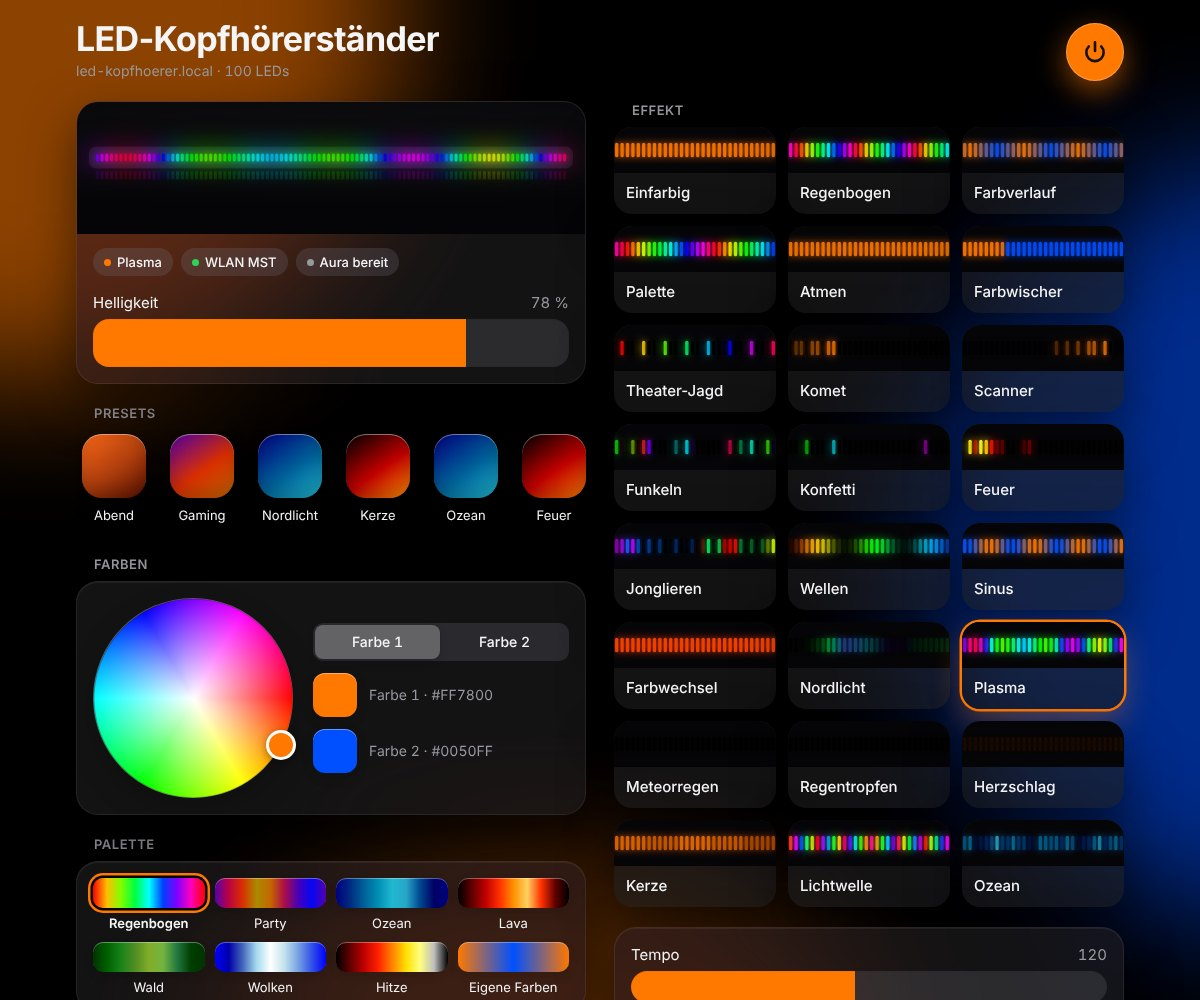
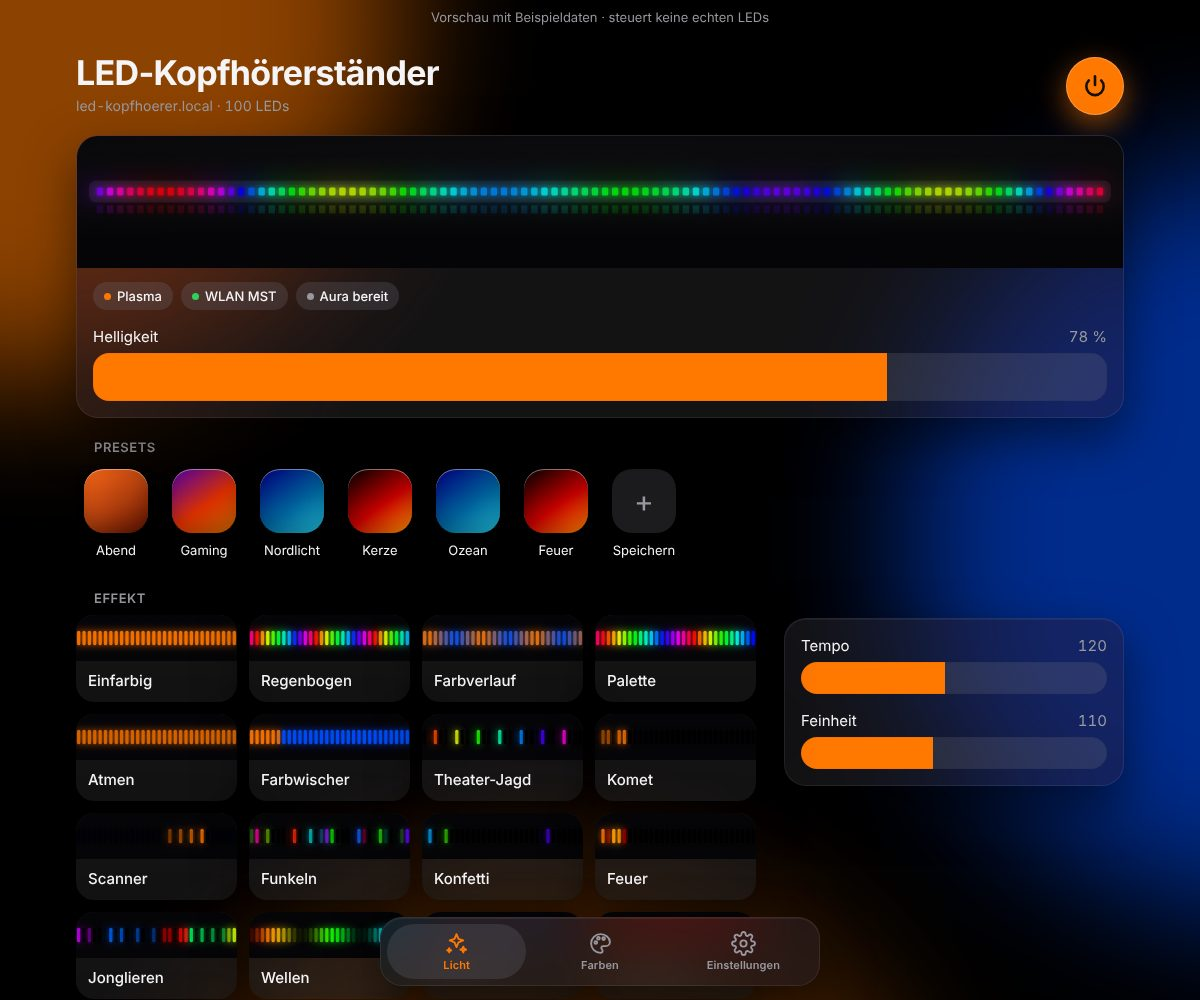
Weboberfläche in drei Seiten mit Tab-Leiste aufteilen
Licht (Presets, Tempo, Effekte), Farben (Farbrad, Paletten) und
Einstellungen (Aura, Sync, Stromgrenze, Drehung, Gerät, WLAN). Kopf,
Live-Streifen und Helligkeit bleiben oben sichtbar. Schwebende
Tab-Leiste unten, Seiten per #licht/#farben/#einst erreichbar, die
letzte Seite merkt sich der Browser. README-Bilder erneuert.

Claude-Session: https://claude.ai/code/session_01GN2BkTnwmeb155U63FM4of

diff --git a/web/index.html b/web/index.html
@@ -39,9 +39,26 @@ button,input{font:inherit;color:inherit}
 .off .ambient{opacity:.08}
 @keyframes drift{to{transform:translate(8vmax,6vmax) scale(1.15)}}
 .demo{position:relative;z-index:2;font-size:13px;text-align:center;padding:8px 16px;color:var(--muted)}
-.app{position:relative;z-index:1;max-width:1080px;margin:0 auto;padding:8px 16px calc(40px + env(safe-area-inset-bottom));display:grid;gap:20px}
-@media (min-width:900px){.app{grid-template-columns:1fr 1fr;align-items:start;column-gap:28px}.span{grid-column:1/-1}}
-.col{display:grid;gap:20px}
+.app{position:relative;z-index:1;max-width:1080px;margin:0 auto;padding:8px 16px calc(120px + env(safe-area-inset-bottom));display:grid;gap:20px}
+.col{display:grid;gap:20px;align-content:start}
+/* Drei Bereiche; Kopf, Streifen und Helligkeit bleiben auf jeder Seite sichtbar */
+.view{display:grid;gap:20px;align-items:start}
+.view[hidden]{display:none}
+.view.in{animation:viewIn .32s cubic-bezier(.2,.8,.2,1)}
+@keyframes viewIn{from{opacity:0;transform:translateY(10px)}}
+@media (min-width:900px){
+ .view{grid-template-columns:1fr 1fr;column-gap:28px}
+ .v-licht{grid-template-columns:1fr 340px;grid-template-areas:"pre pre" "fx spd"}
+ .a-pre{grid-area:pre}.a-fx{grid-area:fx}.a-spd{grid-area:spd;position:sticky;top:20px;margin-top:29px}
+ .v-licht .fx{grid-template-columns:repeat(auto-fill,minmax(150px,1fr))}
+}
+/* Tab-Leiste unten, schwebend wie in iOS-Apps */
+.tabbar{position:fixed;z-index:5;left:50%;bottom:calc(14px + env(safe-area-inset-bottom));transform:translateX(-50%);display:flex;gap:4px;padding:6px;border-radius:999px;width:min(440px,calc(100% - 32px))}
+.tabbar{background:color-mix(in srgb,var(--bg) 70%,transparent);backdrop-filter:blur(24px) saturate(1.8);-webkit-backdrop-filter:blur(24px) saturate(1.8)}
+.tabbar button{flex:1;display:grid;justify-items:center;gap:2px;border:0;background:none;border-radius:999px;padding:7px 6px 6px;cursor:pointer;color:var(--muted);font-size:11px;font-weight:600;letter-spacing:.01em;transition:background .25s,color .25s}
+.tabbar svg{width:25px;height:25px;fill:none;stroke:currentColor;stroke-width:1.8;stroke-linejoin:round;stroke-linecap:round}
+.tabbar button[aria-selected="true"]{color:var(--acc);background:var(--fill)}
+.tabbar button:active{transform:scale(.94)}
 header{display:flex;align-items:flex-end;gap:14px;padding-top:12px}
 header .txt{flex:1;min-width:0}
 header h1{font:700 34px/1.1 var(--display);letter-spacing:-.02em;margin:0;text-wrap:balance}
@@ -127,24 +144,33 @@ input[type=number]{width:90px;text-align:right;border:0;background:none;color:va
 <div class="ambient" aria-hidden="true"><i></i><i></i><i></i></div>
 <div class="demo" id="demo">Vorschau mit Beispieldaten · steuert keine echten LEDs</div>
 <main class="app">
- <header class="span">
+ <header>
   <div class="txt"><h1>LED-Kopfhörer&shy;ständer</h1><div class="sub" id="sub">verbinde …</div></div>
   <button class="power" id="power" type="button" aria-pressed="true" aria-label="LEDs ein- oder ausschalten"><svg viewBox="0 0 24 24"><path d="M12 3v8"/><path d="M6.3 6.8a8 8 0 1 0 11.4 0"/></svg></button>
  </header>
 
- <div class="col">
-  <section class="glass stage" aria-label="Live-Vorschau">
-   <canvas class="strip" id="strip"></canvas>
-   <div class="pad">
-    <div class="status" id="status"></div>
-    <div class="ctl"><div class="lab"><label for="bri">Helligkeit</label><output id="briO"></output></div><input id="bri" class="big" type="range" min="1" max="255"></div>
-   </div>
-  </section>
+ <section class="glass stage" aria-label="Live-Vorschau">
+  <canvas class="strip" id="strip"></canvas>
+  <div class="pad">
+   <div class="status" id="status"></div>
+   <div class="ctl"><div class="lab"><label for="bri">Helligkeit</label><output id="briO"></output></div><input id="bri" class="big" type="range" min="1" max="255"></div>
+  </div>
+ </section>
 
-  <div class="group"><h2>Presets</h2>
+ <div class="view v-licht" id="v-licht" role="tabpanel" aria-labelledby="t-licht">
+  <div class="group a-pre"><h2>Presets</h2>
    <div class="presets" id="presets"></div>
   </div>
+  <section class="glass pad a-spd">
+   <div class="ctl"><div class="lab"><label for="spd">Tempo</label><output id="spdO"></output></div><input id="spd" type="range" min="0" max="255"></div>
+   <div class="ctl"><div class="lab"><label for="int" id="intL">Intensität</label><output id="intO"></output></div><input id="int" type="range" min="0" max="255"></div>
+  </section>
+  <div class="group a-fx"><h2>Effekt</h2>
+   <div class="fx" id="fx"></div>
+  </div>
+ </div>
 
+ <div class="view" id="v-farben" role="tabpanel" aria-labelledby="t-farben" hidden>
   <div class="group"><h2>Farben</h2>
    <section class="glass pad">
     <div class="colors">
@@ -157,39 +183,42 @@ input[type=number]{width:90px;text-align:right;border:0;background:none;color:va
     </div>
    </section>
   </div>
-
   <div class="group"><h2>Palette</h2>
    <section class="glass pad"><div class="pals" id="pals"></div></section>
+   <p class="foot">Die Palette färbt alle mehrfarbigen Effekte, etwa Konfetti, Plasma oder Meteorregen. „Eigene Farben“ mischt Farbe 1 und Farbe 2.</p>
   </div>
  </div>
 
- <div class="col">
-  <div class="group"><h2>Effekt</h2>
-   <div class="fx" id="fx"></div>
+ <div class="view" id="v-einst" role="tabpanel" aria-labelledby="t-einst" hidden>
+  <div class="col">
+   <div class="group"><h2>PC und Mainboard</h2>
+    <section class="glass list">
+     <div class="li"><span>ASUS Aura über Kabel</span><button class="switch" id="argb" type="button" role="switch" aria-checked="false" aria-label="ASUS Aura übernehmen"></button><small id="argbHint"></small></div>
+     <div class="li"><span>PC-Sync per WLAN</span><button class="switch" id="sync" type="button" role="switch" aria-checked="true" aria-label="PC-Sync per WLAN"></button><small>SignalRGB, OpenRGB, Home Assistant</small></div>
+    </section>
+   </div>
+   <div class="group"><h2>Einstellungen</h2>
+    <section class="glass list">
+     <div class="li"><label for="ma">Stromgrenze</label><span class="val"><input id="ma" type="number" min="200" step="100"> mA</span></div>
+     <div class="li"><span id="rotL">Anzeige drehen</span><div class="seg" id="rot" role="group" aria-labelledby="rotL" style="min-width:210px"></div></div>
+    </section>
+    <p class="foot" id="maHint"></p>
+   </div>
   </div>
-  <section class="glass pad">
-   <div class="ctl"><div class="lab"><label for="spd">Tempo</label><output id="spdO"></output></div><input id="spd" type="range" min="0" max="255"></div>
-   <div class="ctl"><div class="lab"><label for="int" id="intL">Intensität</label><output id="intO"></output></div><input id="int" type="range" min="0" max="255"></div>
-  </section>
-
-  <div class="group"><h2>PC und Mainboard</h2>
-   <section class="glass list">
-    <div class="li"><span>ASUS Aura über Kabel</span><button class="switch" id="argb" type="button" role="switch" aria-checked="false" aria-label="ASUS Aura übernehmen"></button><small id="argbHint"></small></div>
-    <div class="li"><span>PC-Sync per WLAN</span><button class="switch" id="sync" type="button" role="switch" aria-checked="true" aria-label="PC-Sync per WLAN"></button><small>SignalRGB, OpenRGB, Home Assistant</small></div>
-   </section>
-  </div>
-
-  <div class="group"><h2>Einstellungen</h2>
-   <section class="glass list">
-    <div class="li"><label for="ma">Stromgrenze</label><span class="val"><input id="ma" type="number" min="200" step="100"> mA</span></div>
-    <div class="li"><span id="rotL">Anzeige drehen</span><div class="seg" id="rot" role="group" aria-labelledby="rotL" style="min-width:210px"></div></div>
-   </section>
-   <p class="foot" id="maHint"></p>
-   <section class="glass list" id="meta"></section>
+  <div class="col">
+   <div class="group"><h2>Gerät</h2>
+    <section class="glass list" id="meta"></section>
+   </div>
    <section class="glass list"><button class="li btn" id="wifiReset" type="button">WLAN neu einrichten</button></section>
   </div>
  </div>
 </main>
+
+<nav class="tabbar glass" role="tablist" aria-label="Bereiche">
+ <button id="t-licht" role="tab" type="button" aria-controls="v-licht" data-v="licht"><svg viewBox="0 0 24 24"><path d="M12 3l1.9 4.6L18.5 9l-4.6 1.9L12 15.5l-1.9-4.6L5.5 9l4.6-1.4z"/><path d="M18.5 15l.8 2 2 .8-2 .8-.8 2-.8-2-2-.8 2-.8z"/><path d="M5 16.5l.6 1.4 1.4.6-1.4.6L5 20.5l-.6-1.4-1.4-.6 1.4-.6z"/></svg><span>Licht</span></button>
+ <button id="t-farben" role="tab" type="button" aria-controls="v-farben" data-v="farben"><svg viewBox="0 0 24 24"><path d="M12 3a9 9 0 1 0 0 18c1.4 0 2-1 2-2 0-1.3-1.2-1.6-1.2-2.8 0-1 .8-1.7 1.8-1.7H17a4 4 0 0 0 4-4C21 6.4 17 3 12 3z"/><circle cx="7.5" cy="11" r="1.3"/><circle cx="10" cy="7" r="1.3"/><circle cx="15" cy="7.3" r="1.3"/></svg><span>Farben</span></button>
+ <button id="t-einst" role="tab" type="button" aria-controls="v-einst" data-v="einst"><svg viewBox="0 0 24 24"><circle cx="12" cy="12" r="3"/><path d="M19.4 15a1.7 1.7 0 0 0 .3 1.8l.1.1a2 2 0 1 1-2.8 2.8l-.1-.1a1.7 1.7 0 0 0-1.8-.3 1.7 1.7 0 0 0-1 1.5V21a2 2 0 1 1-4 0v-.1a1.7 1.7 0 0 0-1.1-1.5 1.7 1.7 0 0 0-1.8.3l-.1.1a2 2 0 1 1-2.8-2.8l.1-.1a1.7 1.7 0 0 0 .3-1.8 1.7 1.7 0 0 0-1.5-1H3a2 2 0 1 1 0-4h.1a1.7 1.7 0 0 0 1.5-1.1 1.7 1.7 0 0 0-.3-1.8l-.1-.1a2 2 0 1 1 2.8-2.8l.1.1a1.7 1.7 0 0 0 1.8.3H9a1.7 1.7 0 0 0 1-1.5V3a2 2 0 1 1 4 0v.1a1.7 1.7 0 0 0 1 1.5 1.7 1.7 0 0 0 1.8-.3l.1-.1a2 2 0 1 1 2.8 2.8l-.1.1a1.7 1.7 0 0 0-.3 1.8V9a1.7 1.7 0 0 0 1.5 1H21a2 2 0 1 1 0 4h-.1a1.7 1.7 0 0 0-1.5 1z"/></svg><span>Einstellungen</span></button>
+</nav>
 <script>
 "use strict";
 // Auf dem Geraet spricht die Seite mit /api/...; nur die Online-Vorschau setzt window.LED_DEMO.
@@ -461,11 +490,30 @@ function loop(now){
  if (acc>=step){
   const cols = !st.on ? Array.from({length:info.leds},()=>[0,0,0]) : (liveCols && performance.now()-liveAt<1000) ? liveCols : mainSim(st.fx, st, acc);
   drawStrip($('strip'), cols, st.on?st.bri:0);
-  tiles.forEach((t,i)=>drawLeds(t.cv, t.sim(i, {...st, spd:Math.max(st.spd,60)}, acc), 235, true));
+  if (view==='licht') tiles.forEach((t,i)=>drawLeds(t.cv, t.sim(i, {...st, spd:Math.max(st.spd,60)}, acc), 235, true));
   acc=0;
  }
  requestAnimationFrame(loop);
 }
+// ---------- Bereiche ----------
+const VIEWS=['licht','farben','einst'];
+let view='licht';
+function show(v, anim){
+ if(!VIEWS.includes(v)) v='licht';
+ view=v;
+ for(const k of VIEWS){ const on=k===v, el=$('v-'+k), t=$('t-'+k);
+  el.hidden=!on; t.setAttribute('aria-selected',on); t.tabIndex=on?0:-1;
+  if(on && anim && !reduce){ el.classList.remove('in'); void el.offsetWidth; el.classList.add('in'); } }
+ try{ localStorage.setItem('ledView',v); }catch(e){}
+}
+document.querySelectorAll('.tabbar button').forEach((b,i,all)=>{
+ b.onclick=()=>{ if(b.dataset.v===view) return scrollTo({top:0,behavior:reduce?'auto':'smooth'});
+  history.replaceState(null,'','#'+b.dataset.v); show(b.dataset.v,true); scrollTo(0,0); };
+ b.onkeydown=e=>{ const d=e.key==='ArrowRight'?1:e.key==='ArrowLeft'?-1:0; if(!d) return;
+  const n=all[(i+d+all.length)%all.length]; n.focus(); n.click(); };
+});
+addEventListener('hashchange',()=>show(location.hash.slice(1),true));
+{ let v=location.hash.slice(1); if(!VIEWS.includes(v)){ try{ v=localStorage.getItem('ledView')||''; }catch(e){ v=''; } } show(v,false); }
 $('demo').hidden=!DEMO;
 Promise.all([api.info(),api.state(),api.presets().catch(()=>null)]).then(([i,s,p])=>{ info=i; st=s; if(Array.isArray(p)&&p.length) presets=p; mainSim=makeSim(info.leds); build(); drawWheel(); render(); requestAnimationFrame(loop); if(api.live) pollLive(); });
 if (!DEMO) setInterval(()=>{ if(!Object.keys(pending).length) api.state().then(s=>{st=s;render();}).catch(()=>{}); },3000);

diff --git a/src/webui_index.h b/src/webui_index.h
@@ -43,9 +43,26 @@ button,input{font:inherit;color:inherit}
 .off .ambient{opacity:.08}
 @keyframes drift{to{transform:translate(8vmax,6vmax) scale(1.15)}}
 .demo{position:relative;z-index:2;font-size:13px;text-align:center;padding:8px 16px;color:var(--muted)}
-.app{position:relative;z-index:1;max-width:1080px;margin:0 auto;padding:8px 16px calc(40px + env(safe-area-inset-bottom));display:grid;gap:20px}
-@media (min-width:900px){.app{grid-template-columns:1fr 1fr;align-items:start;column-gap:28px}.span{grid-column:1/-1}}
-.col{display:grid;gap:20px}
+.app{position:relative;z-index:1;max-width:1080px;margin:0 auto;padding:8px 16px calc(120px + env(safe-area-inset-bottom));display:grid;gap:20px}
+.col{display:grid;gap:20px;align-content:start}
+/* Drei Bereiche; Kopf, Streifen und Helligkeit bleiben auf jeder Seite sichtbar */
+.view{display:grid;gap:20px;align-items:start}
+.view[hidden]{display:none}
+.view.in{animation:viewIn .32s cubic-bezier(.2,.8,.2,1)}
+@keyframes viewIn{from{opacity:0;transform:translateY(10px)}}
+@media (min-width:900px){
+ .view{grid-template-columns:1fr 1fr;column-gap:28px}
+ .v-licht{grid-template-columns:1fr 340px;grid-template-areas:"pre pre" "fx spd"}
+ .a-pre{grid-area:pre}.a-fx{grid-area:fx}.a-spd{grid-area:spd;position:sticky;top:20px;margin-top:29px}
+ .v-licht .fx{grid-template-columns:repeat(auto-fill,minmax(150px,1fr))}
+}
+/* Tab-Leiste unten, schwebend wie in iOS-Apps */
+.tabbar{position:fixed;z-index:5;left:50%;bottom:calc(14px + env(safe-area-inset-bottom));transform:translateX(-50%);display:flex;gap:4px;padding:6px;border-radius:999px;width:min(440px,calc(100% - 32px))}
+.tabbar{background:color-mix(in srgb,var(--bg) 70%,transparent);backdrop-filter:blur(24px) saturate(1.8);-webkit-backdrop-filter:blur(24px) saturate(1.8)}
+.tabbar button{flex:1;display:grid;justify-items:center;gap:2px;border:0;background:none;border-radius:999px;padding:7px 6px 6px;cursor:pointer;color:var(--muted);font-size:11px;font-weight:600;letter-spacing:.01em;transition:background .25s,color .25s}
+.tabbar svg{width:25px;height:25px;fill:none;stroke:currentColor;stroke-width:1.8;stroke-linejoin:round;stroke-linecap:round}
+.tabbar button[aria-selected="true"]{color:var(--acc);background:var(--fill)}
+.tabbar button:active{transform:scale(.94)}
 header{display:flex;align-items:flex-end;gap:14px;padding-top:12px}
 header .txt{flex:1;min-width:0}
 header h1{font:700 34px/1.1 var(--display);letter-spacing:-.02em;margin:0;text-wrap:balance}
@@ -131,24 +148,33 @@ input[type=number]{width:90px;text-align:right;border:0;background:none;color:va
 <div class="ambient" aria-hidden="true"><i></i><i></i><i></i></div>
 <div class="demo" id="demo">Vorschau mit Beispieldaten · steuert keine echten LEDs</div>
 <main class="app">
- <header class="span">
+ <header>
   <div class="txt"><h1>LED-Kopfhörer&shy;ständer</h1><div class="sub" id="sub">verbinde …</div></div>
   <button class="power" id="power" type="button" aria-pressed="true" aria-label="LEDs ein- oder ausschalten"><svg viewBox="0 0 24 24"><path d="M12 3v8"/><path d="M6.3 6.8a8 8 0 1 0 11.4 0"/></svg></button>
  </header>
 
- <div class="col">
-  <section class="glass stage" aria-label="Live-Vorschau">
-   <canvas class="strip" id="strip"></canvas>
-   <div class="pad">
-    <div class="status" id="status"></div>
-    <div class="ctl"><div class="lab"><label for="bri">Helligkeit</label><output id="briO"></output></div><input id="bri" class="big" type="range" min="1" max="255"></div>
-   </div>
-  </section>
+ <section class="glass stage" aria-label="Live-Vorschau">
+  <canvas class="strip" id="strip"></canvas>
+  <div class="pad">
+   <div class="status" id="status"></div>
+   <div class="ctl"><div class="lab"><label for="bri">Helligkeit</label><output id="briO"></output></div><input id="bri" class="big" type="range" min="1" max="255"></div>
+  </div>
+ </section>
 
-  <div class="group"><h2>Presets</h2>
+ <div class="view v-licht" id="v-licht" role="tabpanel" aria-labelledby="t-licht">
+  <div class="group a-pre"><h2>Presets</h2>
    <div class="presets" id="presets"></div>
   </div>
+  <section class="glass pad a-spd">
+   <div class="ctl"><div class="lab"><label for="spd">Tempo</label><output id="spdO"></output></div><input id="spd" type="range" min="0" max="255"></div>
+   <div class="ctl"><div class="lab"><label for="int" id="intL">Intensität</label><output id="intO"></output></div><input id="int" type="range" min="0" max="255"></div>
+  </section>
+  <div class="group a-fx"><h2>Effekt</h2>
+   <div class="fx" id="fx"></div>
+  </div>
+ </div>
 
+ <div class="view" id="v-farben" role="tabpanel" aria-labelledby="t-farben" hidden>
   <div class="group"><h2>Farben</h2>
    <section class="glass pad">
     <div class="colors">
@@ -161,39 +187,42 @@ input[type=number]{width:90px;text-align:right;border:0;background:none;color:va
     </div>
    </section>
   </div>
-
   <div class="group"><h2>Palette</h2>
    <section class="glass pad"><div class="pals" id="pals"></div></section>
+   <p class="foot">Die Palette färbt alle mehrfarbigen Effekte, etwa Konfetti, Plasma oder Meteorregen. „Eigene Farben“ mischt Farbe 1 und Farbe 2.</p>
   </div>
  </div>
 
- <div class="col">
-  <div class="group"><h2>Effekt</h2>
-   <div class="fx" id="fx"></div>
+ <div class="view" id="v-einst" role="tabpanel" aria-labelledby="t-einst" hidden>
+  <div class="col">
+   <div class="group"><h2>PC und Mainboard</h2>
+    <section class="glass list">
+     <div class="li"><span>ASUS Aura über Kabel</span><button class="switch" id="argb" type="button" role="switch" aria-checked="false" aria-label="ASUS Aura übernehmen"></button><small id="argbHint"></small></div>
+     <div class="li"><span>PC-Sync per WLAN</span><button class="switch" id="sync" type="button" role="switch" aria-checked="true" aria-label="PC-Sync per WLAN"></button><small>SignalRGB, OpenRGB, Home Assistant</small></div>
+    </section>
+   </div>
+   <div class="group"><h2>Einstellungen</h2>
+    <section class="glass list">
+     <div class="li"><label for="ma">Stromgrenze</label><span class="val"><input id="ma" type="number" min="200" step="100"> mA</span></div>
+     <div class="li"><span id="rotL">Anzeige drehen</span><div class="seg" id="rot" role="group" aria-labelledby="rotL" style="min-width:210px"></div></div>
+    </section>
+    <p class="foot" id="maHint"></p>
+   </div>
   </div>
-  <section class="glass pad">
-   <div class="ctl"><div class="lab"><label for="spd">Tempo</label><output id="spdO"></output></div><input id="spd" type="range" min="0" max="255"></div>
-   <div class="ctl"><div class="lab"><label for="int" id="intL">Intensität</label><output id="intO"></output></div><input id="int" type="range" min="0" max="255"></div>
-  </section>
-
-  <div class="group"><h2>PC und Mainboard</h2>
-   <section class="glass list">
-    <div class="li"><span>ASUS Aura über Kabel</span><button class="switch" id="argb" type="button" role="switch" aria-checked="false" aria-label="ASUS Aura übernehmen"></button><small id="argbHint"></small></div>
-    <div class="li"><span>PC-Sync per WLAN</span><button class="switch" id="sync" type="button" role="switch" aria-checked="true" aria-label="PC-Sync per WLAN"></button><small>SignalRGB, OpenRGB, Home Assistant</small></div>
-   </section>
-  </div>
-
-  <div class="group"><h2>Einstellungen</h2>
-   <section class="glass list">
-    <div class="li"><label for="ma">Stromgrenze</label><span class="val"><input id="ma" type="number" min="200" step="100"> mA</span></div>
-    <div class="li"><span id="rotL">Anzeige drehen</span><div class="seg" id="rot" role="group" aria-labelledby="rotL" style="min-width:210px"></div></div>
-   </section>
-   <p class="foot" id="maHint"></p>
-   <section class="glass list" id="meta"></section>
+  <div class="col">
+   <div class="group"><h2>Gerät</h2>
+    <section class="glass list" id="meta"></section>
+   </div>
    <section class="glass list"><button class="li btn" id="wifiReset" type="button">WLAN neu einrichten</button></section>
   </div>
  </div>
 </main>
+
+<nav class="tabbar glass" role="tablist" aria-label="Bereiche">
+ <button id="t-licht" role="tab" type="button" aria-controls="v-licht" data-v="licht"><svg viewBox="0 0 24 24"><path d="M12 3l1.9 4.6L18.5 9l-4.6 1.9L12 15.5l-1.9-4.6L5.5 9l4.6-1.4z"/><path d="M18.5 15l.8 2 2 .8-2 .8-.8 2-.8-2-2-.8 2-.8z"/><path d="M5 16.5l.6 1.4 1.4.6-1.4.6L5 20.5l-.6-1.4-1.4-.6 1.4-.6z"/></svg><span>Licht</span></button>
+ <button id="t-farben" role="tab" type="button" aria-controls="v-farben" data-v="farben"><svg viewBox="0 0 24 24"><path d="M12 3a9 9 0 1 0 0 18c1.4 0 2-1 2-2 0-1.3-1.2-1.6-1.2-2.8 0-1 .8-1.7 1.8-1.7H17a4 4 0 0 0 4-4C21 6.4 17 3 12 3z"/><circle cx="7.5" cy="11" r="1.3"/><circle cx="10" cy="7" r="1.3"/><circle cx="15" cy="7.3" r="1.3"/></svg><span>Farben</span></button>
+ <button id="t-einst" role="tab" type="button" aria-controls="v-einst" data-v="einst"><svg viewBox="0 0 24 24"><circle cx="12" cy="12" r="3"/><path d="M19.4 15a1.7 1.7 0 0 0 .3 1.8l.1.1a2 2 0 1 1-2.8 2.8l-.1-.1a1.7 1.7 0 0 0-1.8-.3 1.7 1.7 0 0 0-1 1.5V21a2 2 0 1 1-4 0v-.1a1.7 1.7 0 0 0-1.1-1.5 1.7 1.7 0 0 0-1.8.3l-.1.1a2 2 0 1 1-2.8-2.8l.1-.1a1.7 1.7 0 0 0 .3-1.8 1.7 1.7 0 0 0-1.5-1H3a2 2 0 1 1 0-4h.1a1.7 1.7 0 0 0 1.5-1.1 1.7 1.7 0 0 0-.3-1.8l-.1-.1a2 2 0 1 1 2.8-2.8l.1.1a1.7 1.7 0 0 0 1.8.3H9a1.7 1.7 0 0 0 1-1.5V3a2 2 0 1 1 4 0v.1a1.7 1.7 0 0 0 1 1.5 1.7 1.7 0 0 0 1.8-.3l.1-.1a2 2 0 1 1 2.8 2.8l-.1.1a1.7 1.7 0 0 0-.3 1.8V9a1.7 1.7 0 0 0 1.5 1H21a2 2 0 1 1 0 4h-.1a1.7 1.7 0 0 0-1.5 1z"/></svg><span>Einstellungen</span></button>
+</nav>
 <script>
 "use strict";
 // Auf dem Geraet spricht die Seite mit /api/...; nur die Online-Vorschau setzt window.LED_DEMO.
@@ -465,11 +494,30 @@ function loop(now){
  if (acc>=step){
   const cols = !st.on ? Array.from({length:info.leds},()=>[0,0,0]) : (liveCols && performance.now()-liveAt<1000) ? liveCols : mainSim(st.fx, st, acc);
   drawStrip($('strip'), cols, st.on?st.bri:0);
-  tiles.forEach((t,i)=>drawLeds(t.cv, t.sim(i, {...st, spd:Math.max(st.spd,60)}, acc), 235, true));
+  if (view==='licht') tiles.forEach((t,i)=>drawLeds(t.cv, t.sim(i, {...st, spd:Math.max(st.spd,60)}, acc), 235, true));
   acc=0;
  }
  requestAnimationFrame(loop);
 }
+// ---------- Bereiche ----------
+const VIEWS=['licht','farben','einst'];
+let view='licht';
+function show(v, anim){
+ if(!VIEWS.includes(v)) v='licht';
+ view=v;
+ for(const k of VIEWS){ const on=k===v, el=$('v-'+k), t=$('t-'+k);
+  el.hidden=!on; t.setAttribute('aria-selected',on); t.tabIndex=on?0:-1;
+  if(on && anim && !reduce){ el.classList.remove('in'); void el.offsetWidth; el.classList.add('in'); } }
+ try{ localStorage.setItem('ledView',v); }catch(e){}
+}
+document.querySelectorAll('.tabbar button').forEach((b,i,all)=>{
+ b.onclick=()=>{ if(b.dataset.v===view) return scrollTo({top:0,behavior:reduce?'auto':'smooth'});
+  history.replaceState(null,'','#'+b.dataset.v); show(b.dataset.v,true); scrollTo(0,0); };
+ b.onkeydown=e=>{ const d=e.key==='ArrowRight'?1:e.key==='ArrowLeft'?-1:0; if(!d) return;
+  const n=all[(i+d+all.length)%all.length]; n.focus(); n.click(); };
+});
+addEventListener('hashchange',()=>show(location.hash.slice(1),true));
+{ let v=location.hash.slice(1); if(!VIEWS.includes(v)){ try{ v=localStorage.getItem('ledView')||''; }catch(e){ v=''; } } show(v,false); }
 $('demo').hidden=!DEMO;
 Promise.all([api.info(),api.state(),api.presets().catch(()=>null)]).then(([i,s,p])=>{ info=i; st=s; if(Array.isArray(p)&&p.length) presets=p; mainSim=makeSim(info.leds); build(); drawWheel(); render(); requestAnimationFrame(loop); if(api.live) pollLive(); });
 if (!DEMO) setInterval(()=>{ if(!Object.keys(pending).length) api.state().then(s=>{st=s;render();}).catch(()=>{}); },3000);

diff --git a/README.md b/README.md
@@ -3,13 +3,16 @@
 WLAN-Steuerung für die LED-Beleuchtung eines Kopfhörerständers. Ein Waveshare ESP32-C6-LCD-1.3 steuert einen WS2812B-Streifen (5 V, 144 LEDs, 1 m). Über eine Weboberfläche im Heimnetz wählst du Farben, Paletten und bewegte Effekte, ähnlich wie bei WLED. Das eingebaute Display zeigt IP-Adresse, Effekt, Helligkeit und eine LED-Vorschau.
 
 <p align="center">
-  <img src="docs/images/weboberflaeche-handy-hell.jpg" alt="Weboberfläche auf dem Handy, heller Modus" width="260">
-  <img src="docs/images/weboberflaeche-handy-dunkel.jpg" alt="Weboberfläche auf dem Handy, dunkler Modus" width="260">
+  <img src="docs/images/weboberflaeche-handy-licht.jpg" alt="Seite Licht mit Presets, Tempo und Effekten, heller Modus" width="250">
+  <img src="docs/images/weboberflaeche-handy-farben.jpg" alt="Seite Farben mit Farbrad und Paletten, dunkler Modus" width="250">
+  <img src="docs/images/weboberflaeche-handy-einstellungen.jpg" alt="Seite Einstellungen mit Aura, Stromgrenze und Gerätedaten" width="250">
 </p>
 
 <p align="center">
-  <img src="docs/images/weboberflaeche-pc-dunkel.jpg" alt="Weboberfläche am PC mit allen Effekten" width="800">
+  <img src="docs/images/weboberflaeche-pc-dunkel.jpg" alt="Weboberfläche am PC, Seite Licht mit allen Effekten" width="800">
 </p>
+
+Die Weboberfläche hat drei Seiten, zwischen denen die Leiste unten umschaltet: **Licht** (Presets, Effekte, Tempo), **Farben** (Farbrad, Paletten) und **Einstellungen** (ASUS Aura, PC-Sync, Stromgrenze, Display-Drehung, Gerätedaten, WLAN). Kopfzeile mit Ein/Aus, Live-Streifen und Helligkeit bleiben auf jeder Seite oben. Jede Seite hat eine eigene Adresse (`#licht`, `#farben`, `#einst`), und der Browser merkt sich die zuletzt offene.
 
 Die Bilder zeigen die Weboberfläche mit Beispieldaten. Eine klickbare Vorschau ohne Gerät ist `web/index.html` mit `window.LED_DEMO = true`.
 
